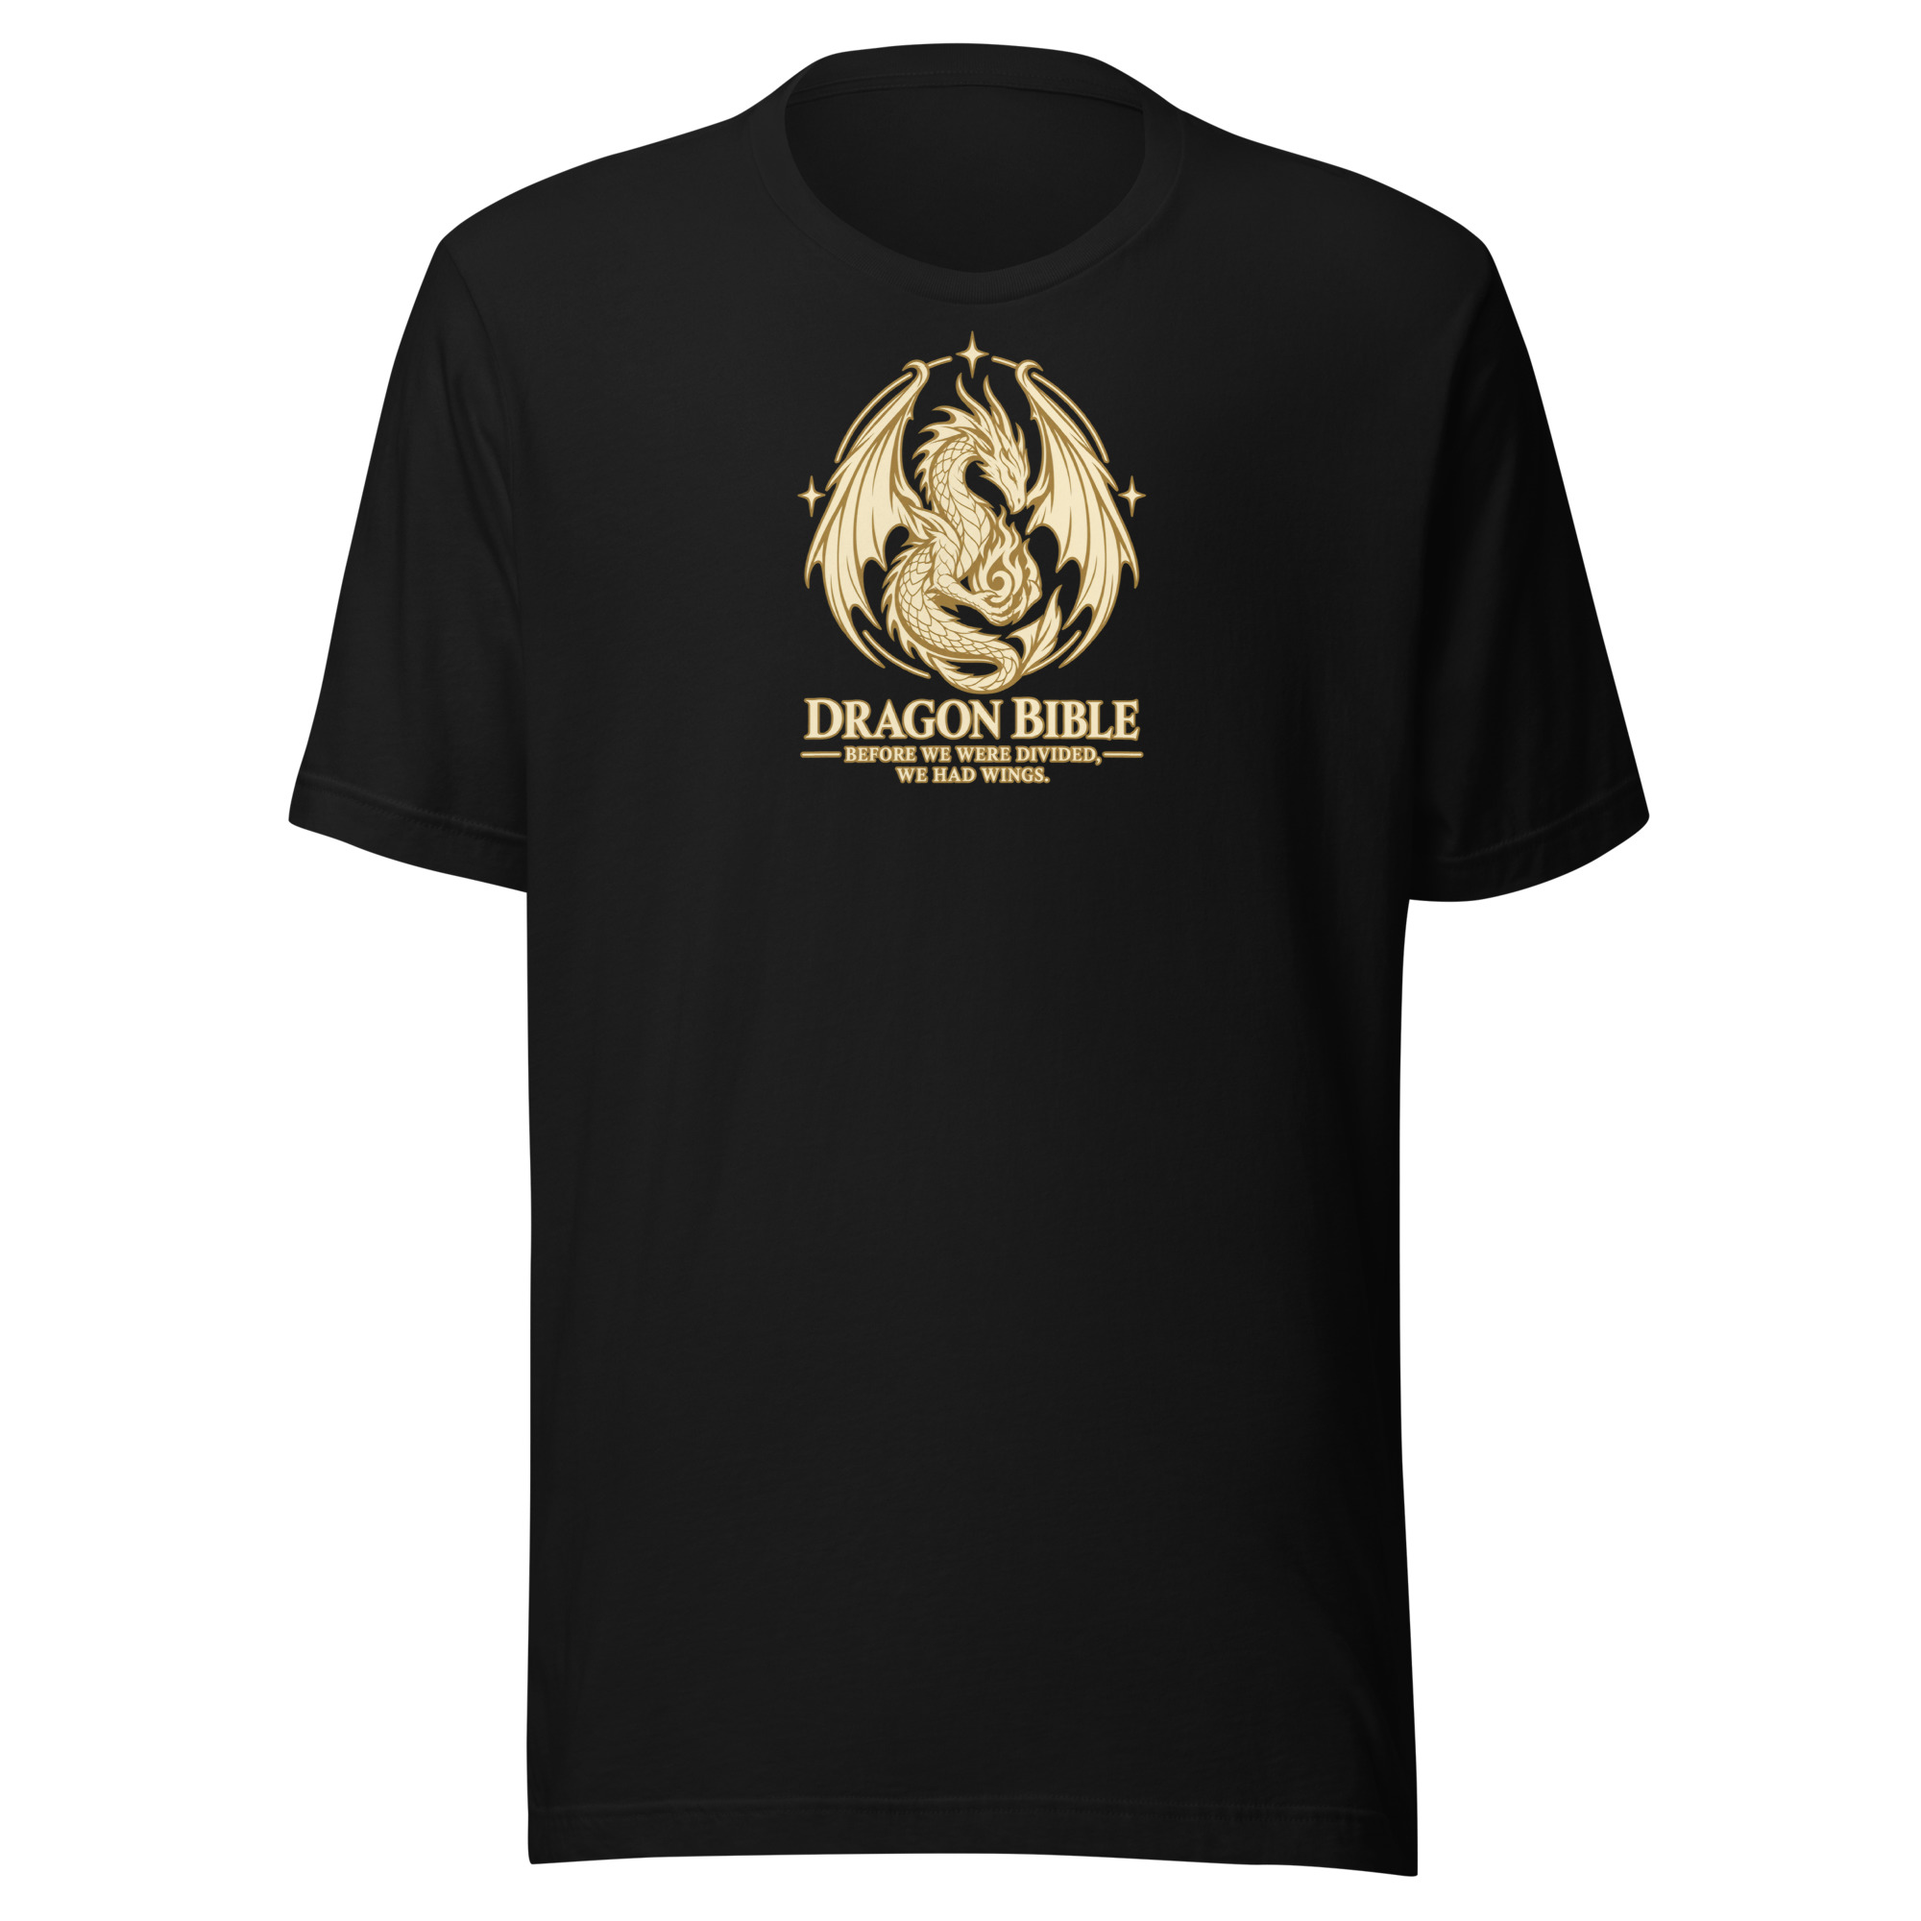
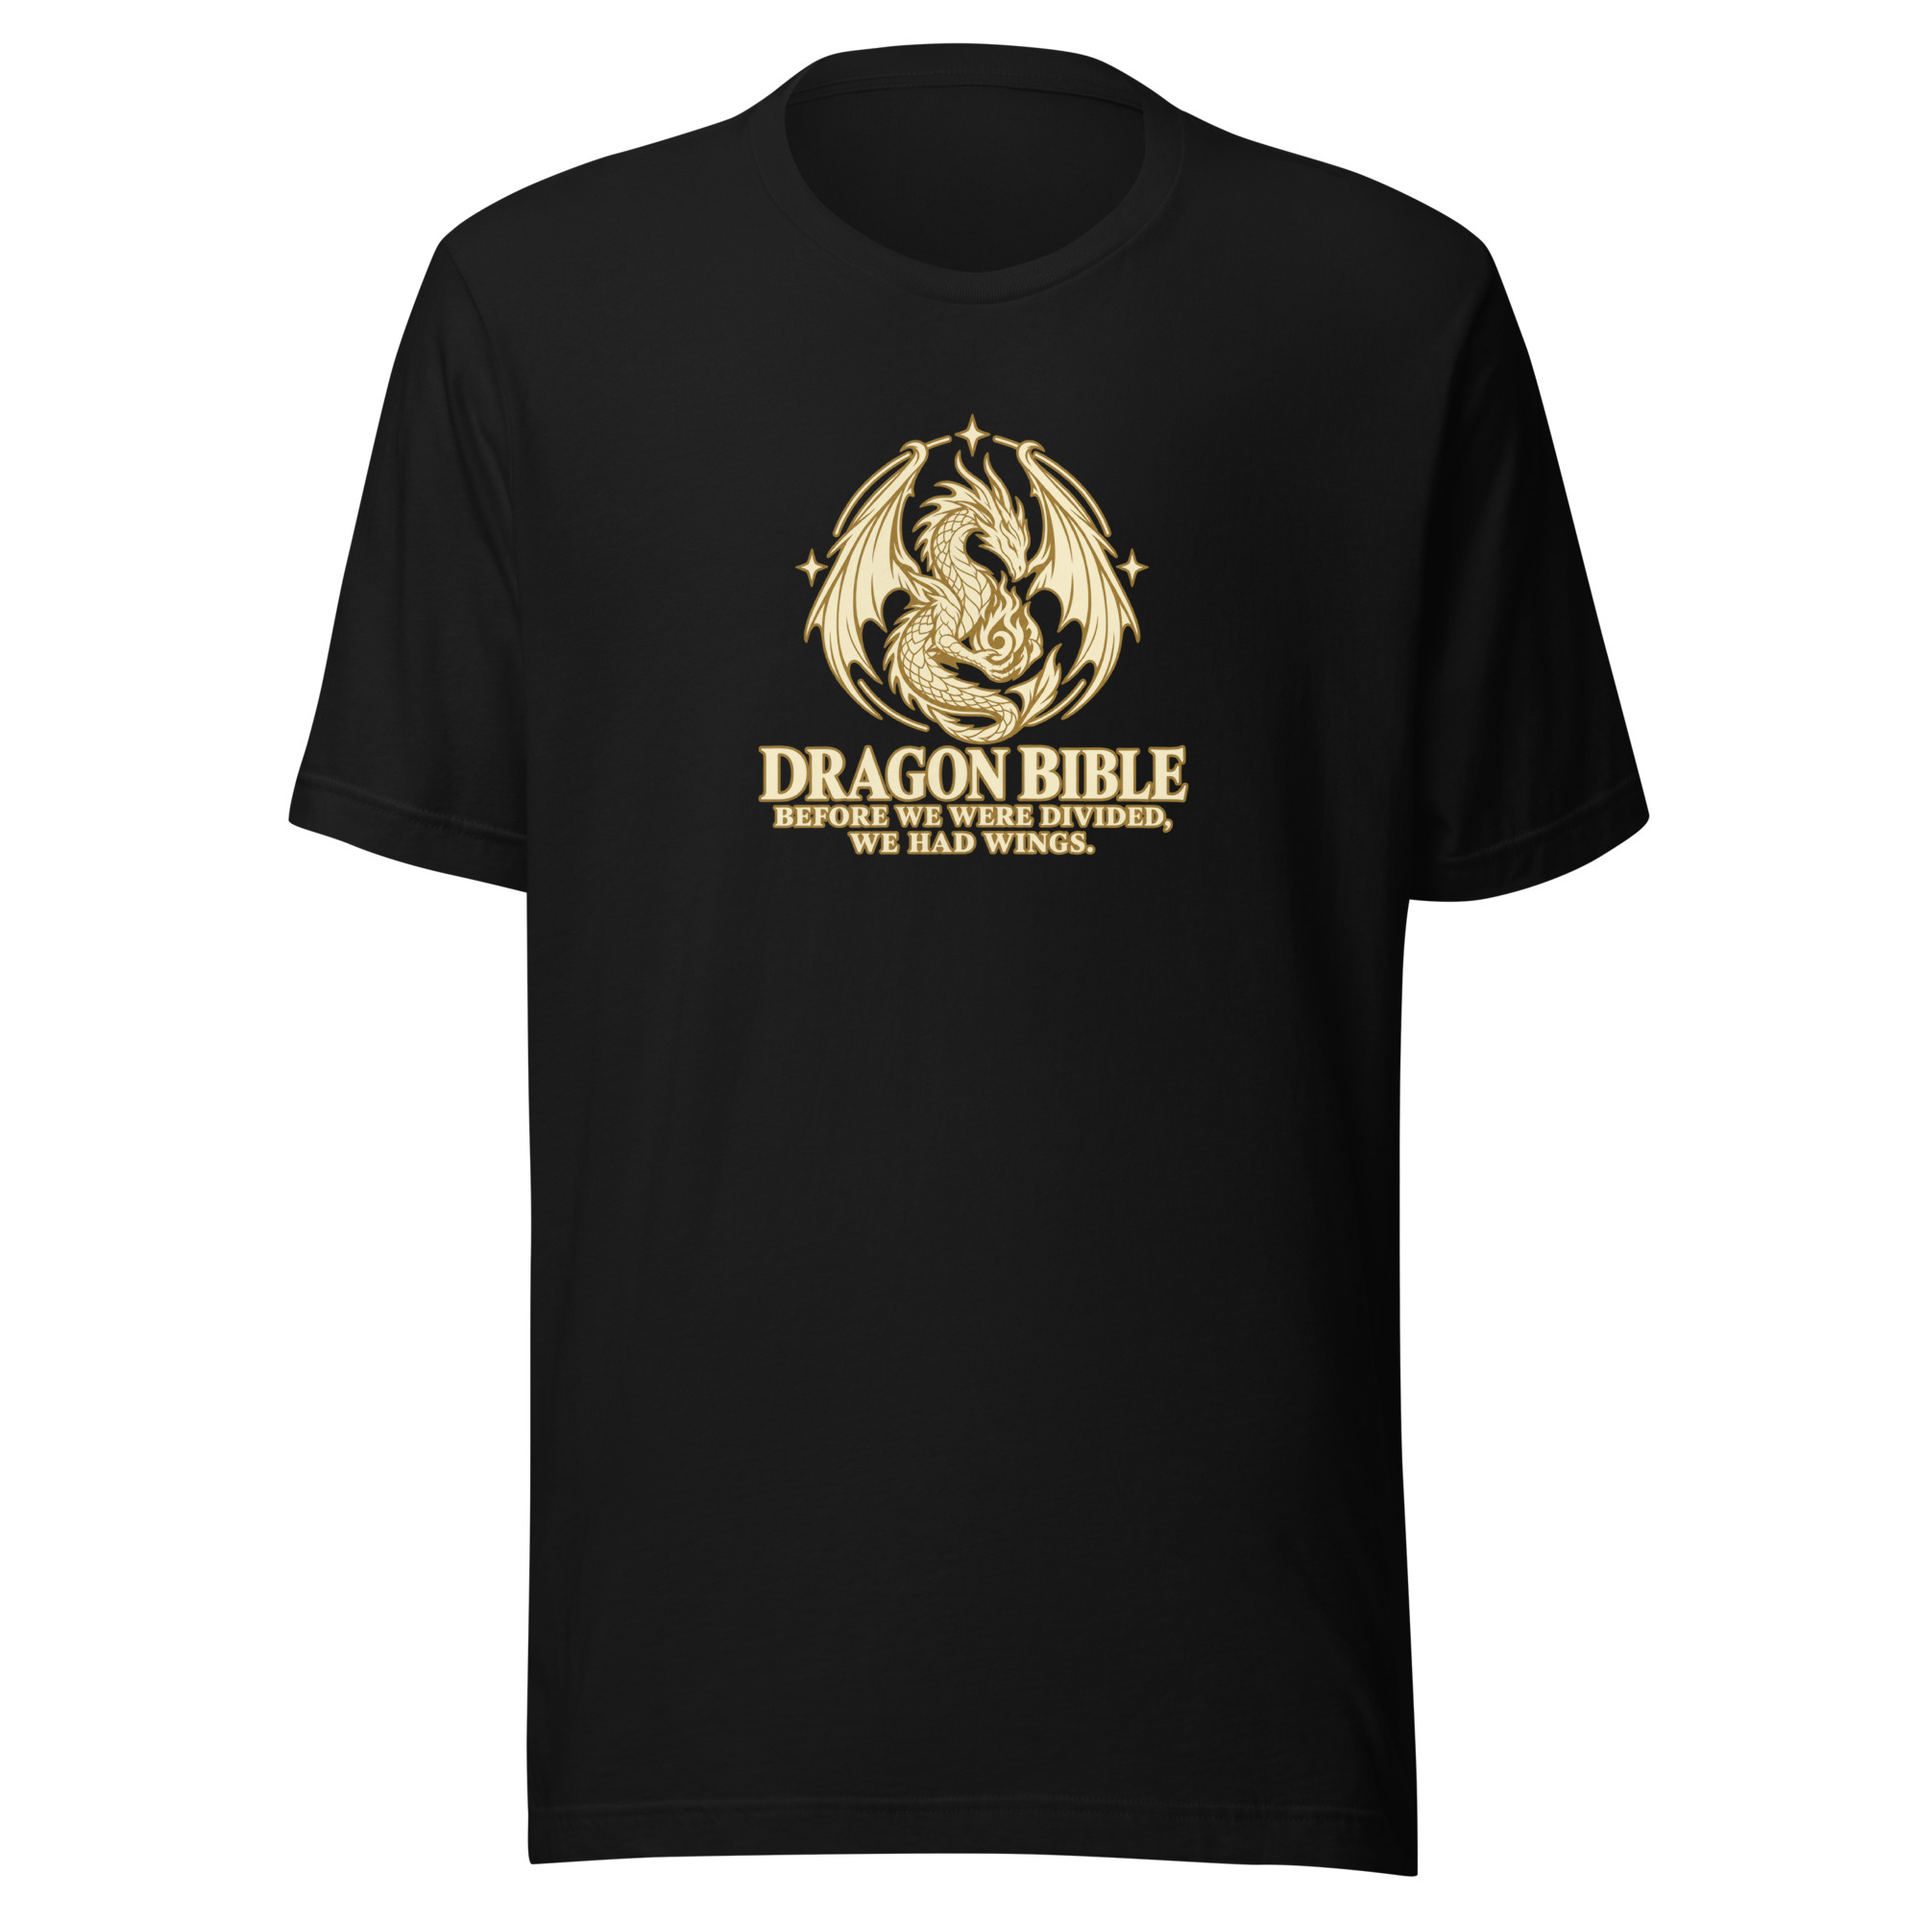
Lower shirt crest and enlarge merchandise lettering

Changed region(s): [[0.372, 0.186, 0.62, 0.465]]

diff --git a/shop.html b/shop.html
@@ -10,7 +10,7 @@
     <meta property="og:description" content="Wear the story. Carry the memory. Preview the first Dragon Bible collection." />
     <meta property="og:type" content="website" />
     <meta property="og:url" content="https://dragonbible.com/shop.html" />
-    <meta property="og:image" content="https://dragonbible.com/images/merch-crest-tee.jpg" />
+    <meta property="og:image" content="https://dragonbible.com/images/merch-crest-tee.jpg?v=2" />
     <link rel="icon" type="image/svg+xml" href="favicon.svg" />
     <link rel="stylesheet" href="site.css" />
     <link rel="stylesheet" href="shop.css" />
@@ -42,7 +42,7 @@
         <div class="collection-heading"><h2 id="pieces-title">We Had Wings</h2><p class="fine-print">Three pieces. One origin story.</p></div>
         <div class="product-grid">
           <article class="product-card" id="crest-tee">
-            <div class="product-image"><img src="images/merch-crest-tee.jpg" alt="Black T-shirt with a cream-and-gold dragon crest and the words Dragon Bible on the front." width="2000" height="2000" loading="lazy" /></div>
+            <div class="product-image"><img src="images/merch-crest-tee.jpg?v=2" alt="Black T-shirt with a cream-and-gold dragon crest placed lower on the chest, larger Dragon Bible lettering, and a readable two-line motto." width="2000" height="2000" loading="lazy" /></div>
             <div class="product-copy">
               <p class="eyebrow">01 · Wear the story</p>
               <div class="product-title"><h3>The Crest Tee</h3><p class="product-price"><span class="sr-only">Planned price </span>$32</p></div>

diff --git a/MERCH.md b/MERCH.md
@@ -8,13 +8,15 @@ The following account-wide templates are saved but unpublished:
 
 | Item | Saved template | Planned USD retail | Configuration |
 | --- | --- | --- | --- |
-| Crest Tee | https://www.printful.com/dashboard/product-templates/108468207 | $32 | Bella + Canvas 3001, Black, XS–5XL; front 7 × 8.75 in, top aligned and horizontally centered |
+| Crest Tee | https://www.printful.com/dashboard/product-templates/108468207 | $32 | Bella + Canvas 3001, Black, XS–5XL; front 8.25 × 8.25 in, horizontally centered and lowered on the chest; preserve the saved template position |
 | Book Tote | https://www.printful.com/dashboard/product-templates/108468311 | $30 | Econscious EC8000, Oyster, one size; front 7 × 8.75 in, centered |
 | Art Print | https://www.printful.com/dashboard/product-templates/108468446 | $16 | Enhanced Matte Paper Poster, only 5 × 7 in; 3.5 × 4.9 in artwork centered on a #123229 full-page field |
 
-The tee and tote source art is 1122 × 1402 px (160 DPI at the saved size). The poster source is 1060 × 1484 px (303 DPI at its inset size). Use the saved templates to preserve placement. Do not expand the poster source to full bleed. Gold is printed color, not metallic foil. Product photos in `images/merch-*.jpg` are official mockups downloaded from these Printful templates, not photographs of inspected samples. `images/merch-gold-crest.png` is the original AI-assisted crest used in the collection hero.
+The revised tee uses `images/merch-tee-crest-v2.png`, 1254 × 1254 px (Printful verified Good / 152 DPI at 8.25 × 8.25 in). It has larger brand lettering and motto, with the artwork lowered from the previous top alignment. The original tee source is retained as the collection hero, not the current shirt print file. The tote source is 1122 × 1402 px (160 DPI at the saved size). The poster source is 1060 × 1484 px (303 DPI at its inset size). Use the saved templates to preserve placement. Do not expand the poster source to full bleed. Gold is printed color, not metallic foil. Product photos in `images/merch-*.jpg` are official mockups downloaded from these Printful templates, not photographs of inspected samples. `images/merch-gold-crest.png` is the original AI-assisted crest used in the collection hero.
 
 No samples have been ordered or inspected. Displayed Printful base costs on October 6, 2026 were $11.92–$19.92 for the tee, $15.87 for the tote, and $5.50 for the print. Verify each size's final cost and retail price when publishing. Shipping and applicable taxes are separate; these prices are not profit guarantees.
+
+The shirt revision used the built-in image-generation tool; the exact edit prompt is in [merch/tee-v2-prompt.json](merch/tee-v2-prompt.json). The saved tee template was updated in place; the tote and poster were not changed.
 
 ## Completing checkout
 
